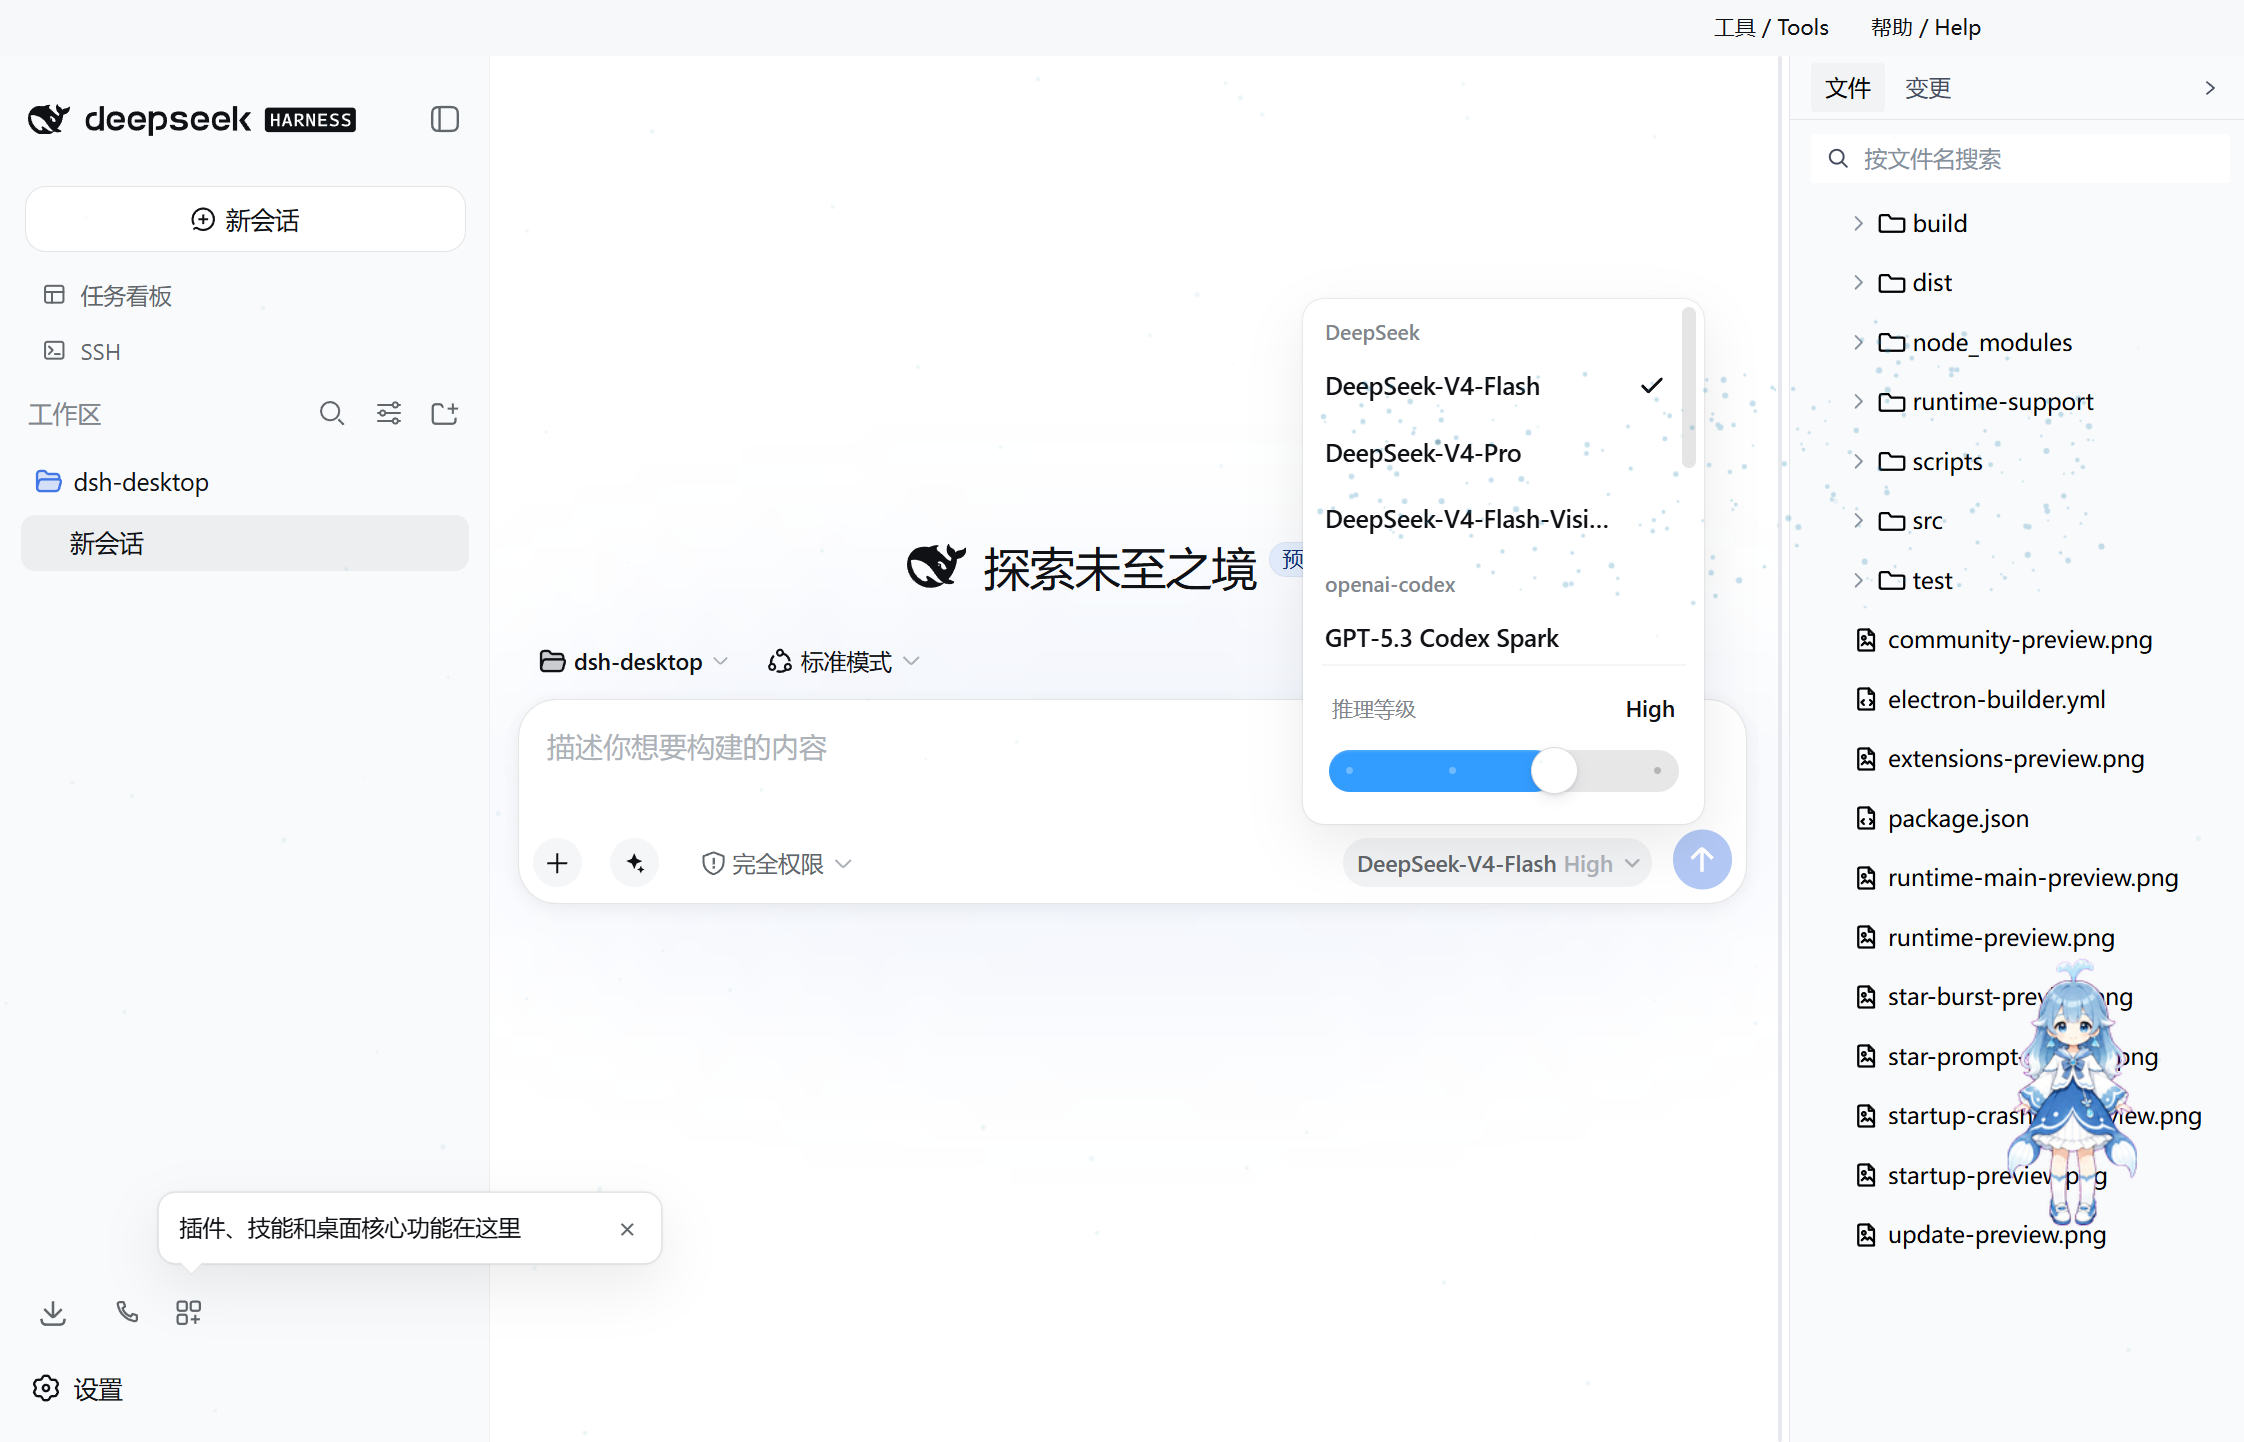
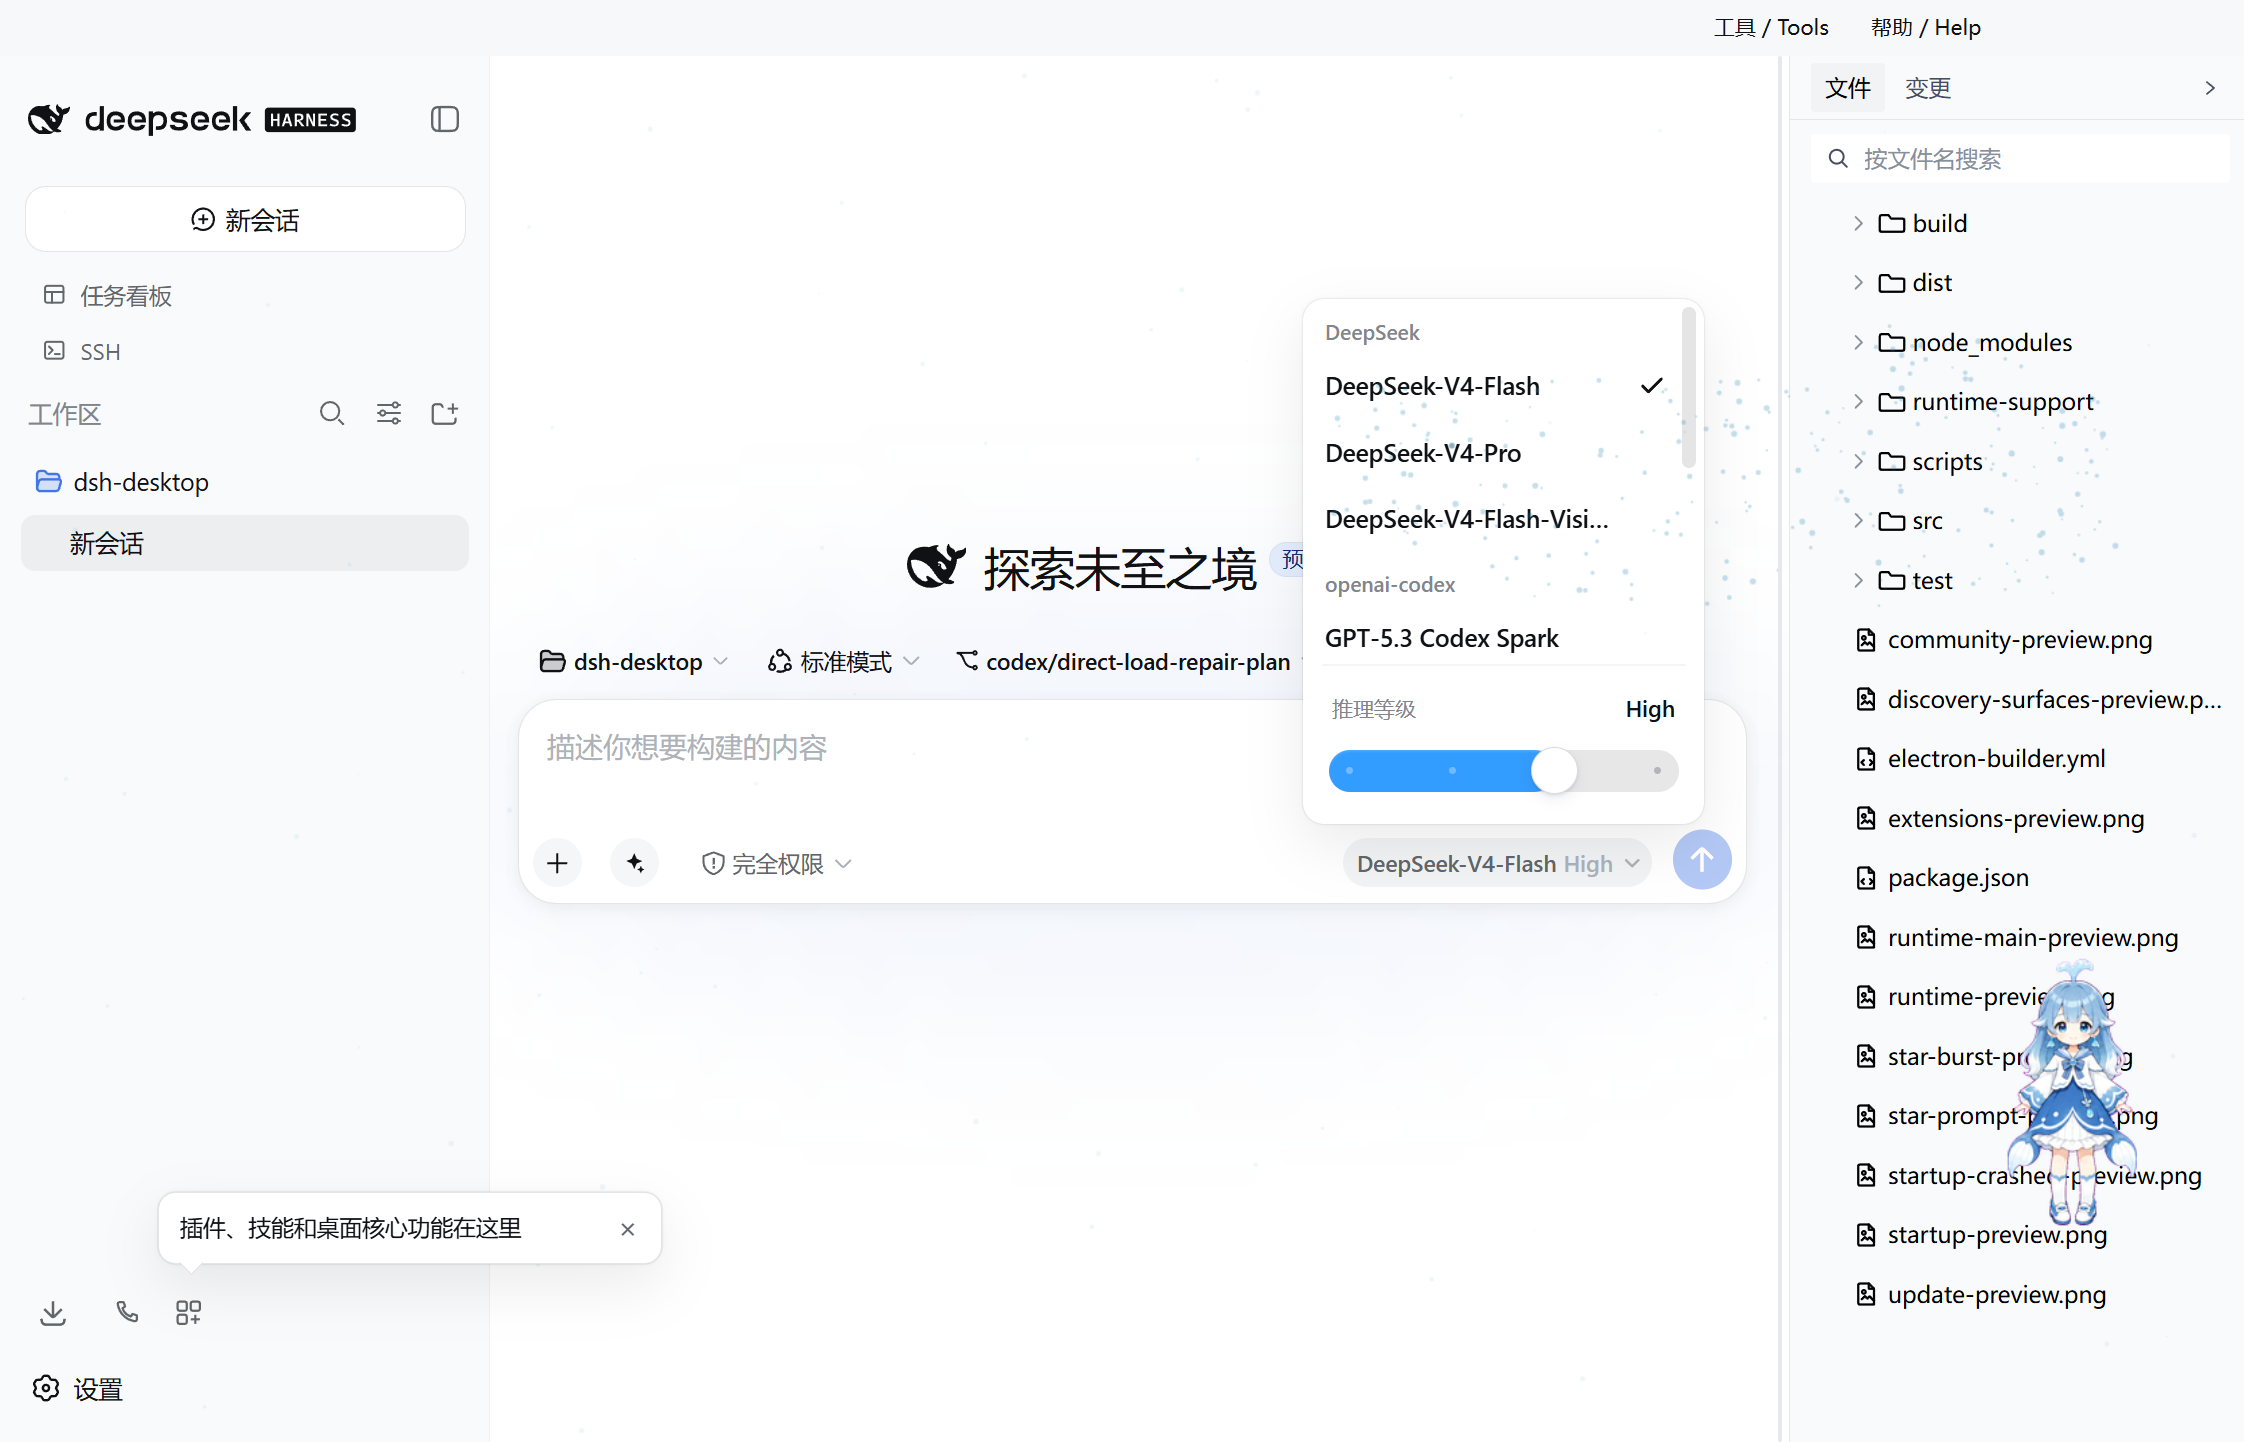
test(desktop): verify live market installation

diff --git a/apps/dsh-desktop/src/ui/extensions.html b/apps/dsh-desktop/src/ui/extensions.html
@@ -126,13 +126,6 @@
         <div class="recovery-safety">
           这些操作只改变桌面版插件配置。聊天记录、模型设置、账号信息和个人设置不会受影响。
         </div>
-        <article class="recovery-mode">
-          <div>
-            <span class="meta">完整权限授权</span>
-            <strong>当前 Windows 用户</strong>
-          </div>
-          <button type="button" class="item-action danger" id="revoke-full-user-trust">撤销并在下次启动重新确认</button>
-        </article>
         <article class="recovery-mode" id="recovery-mode">
           <div>
             <span class="meta">当前启动模式</span>

diff --git a/docs/archive/desktop-2.5-dsh-coupling-audit.md b/docs/archive/desktop-2.5-dsh-coupling-audit.md
@@ -360,7 +360,7 @@ Capability discovery is compatibility evidence only. Renderer surface identity, 
 | profile-home | apps/dsh-desktop/scripts/preset-deep-link-runner.mjs | 63 | DSH_HOME |
 | profile-home | apps/dsh-desktop/scripts/verify-conversation-skills.mjs | 27 | DSH_HOME |
 | profile-home | apps/dsh-desktop/scripts/verify-directory-picker.mjs | 52 | DSH_HOME |
-| profile-home | apps/dsh-desktop/scripts/verify-discovery-surfaces.mjs | 55 | DSH_HOME |
+| profile-home | apps/dsh-desktop/scripts/verify-discovery-surfaces.mjs | 60 | DSH_HOME |
 | profile-home | apps/dsh-desktop/scripts/verify-packaged-orphaned-managed-link.mjs | 20 | profileDir |
 | profile-home | apps/dsh-desktop/scripts/verify-packaged-orphaned-managed-link.mjs | 21 | profileDir |
 | profile-home | apps/dsh-desktop/scripts/verify-packaged-orphaned-managed-link.mjs | 35 | profileDir |
